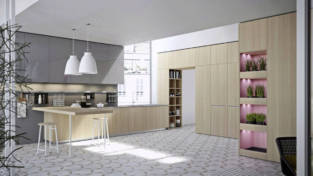
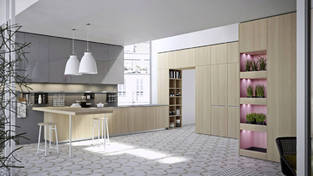
image optimization

diff --git a/pages/prodotti/living.md b/pages/prodotti/living.md
@@ -21,27 +21,27 @@ linkperrow: 5
 
 <div class="row">
     <div class="medium-8 columns t30">
-    {% include modalimg image='living/02-tavolo_16x9.jpg' %}
+    {% include modalimg image='living/02-tavolo_16x9_thumbbig.jpg' modimage='living/02-tavolo_16x9.jpg' %}
     </div><!-- /.medium-8.columns -->
 
     <div class="medium-4 columns t30">
-      {% include modalimg image='living/03-tavolo_16x9.jpg' %}
-      {% include modalimg image='living/04-tavolo_16x9.jpg' class='t30' %}
+      {% include modalimg image='living/03-tavolo_16x9_thumb.jpg' modimage='living/03-tavolo_16x9.jpg' %}
+      {% include modalimg image='living/04-tavolo_16x9_thumb.jpg' modimage='living/04-tavolo_16x9.jpg' class='t30' %}
     </div><!-- /.medium-4.columns -->
 </div><!-- /.row -->
 
 
 <div class="row">
     <div class="medium-4 columns t30">
-      {% include modalimg image='living/01-sedie_16x9.jpg' %}
+      {% include modalimg image='living/01-sedie_16x9_thumb.jpg' modimage='living/01-sedie_16x9.jpg' %}
     </div><!-- /.medium-4.columns -->
 
     <div class="medium-4 columns t30">
-      {% include modalimg image='living/08-complemento_16x9.jpg' %}
+      {% include modalimg image='living/08-complemento_16x9_thumb.jpg' modimage='living/08-complemento_16x9.jpg' %}
     </div><!-- /.medium-4.columns -->
 
     <div class="medium-4 columns t30">
-      {% include modalimg image='living/09-complemento_16x9.jpg' %}
+      {% include modalimg image='living/09-complemento_16x9_thumb.jpg' modimage='living/09-complemento_16x9.jpg' %}
     </div><!-- /.medium-4.columns -->
 
 </div><!-- /.row -->
@@ -49,12 +49,12 @@ linkperrow: 5
 
 <div class="row">
     <div class="medium-4 columns t30">
-      {% include modalimg image='living/05-letto_16x9.jpg' %}
-      {% include modalimg image='living/07-sala_16x9.jpg' class='t30' %}
+      {% include modalimg image='living/05-letto_16x9_thumb.jpg' modimage='living/05-letto_16x9.jpg' %}
+      {% include modalimg image='living/07-sala_16x9_thumb.jpg' modimage='living/07-sala_16x9.jpg' class='t30' %}
     </div><!-- /.medium-4.columns -->
 
     <div class="medium-8 columns t30">
-    {% include modalimg image='living/06-sala_16x9.jpg' %}
+    {% include modalimg image='living/06-sala_16x9_thumbbig.jpg' modimage='living/06-sala_16x9.jpg' %}
     </div><!-- /.medium-8.columns -->
 </div><!-- /.row -->
 

diff --git a/pages/prodotti/sofa.md b/pages/prodotti/sofa.md
@@ -20,38 +20,38 @@ linkperrow: 5
 
 <div class="row">
     <div class="medium-8 columns t30">
-    {% include modalimg image='sofa/01-stressless_16x9.jpg' %}
+    {% include modalimg image='sofa/01-stressless_16x9_thumbbig.jpg' %}
     </div><!-- /.medium-8.columns -->
 
     <div class="medium-4 columns t30">
-      {% include modalimg image='sofa/02-stressless_16x9.jpg' %}
-      {% include modalimg image='sofa/03-stressless_16x9.jpg' class='t30' %}
+      {% include modalimg image='sofa/02-stressless_16x9_thumb.jpg' image='sofa/02-stressless_16x9.jpg' %}
+      {% include modalimg image='sofa/03-stressless_16x9_thumb.jpg' image='sofa/03-stressless_16x9.jpg' class='t30' %}
     </div><!-- /.medium-4.columns -->
 
 </div><!-- /.row -->
 
 <div class="row">
     <div class="medium-4 columns t30">
-      {% include modalimg image='sofa/05-globe_16x9.jpg' caption='RigoSalotti Globe' modimage='sofa/05-globe.jpg' %}
-      {% include modalimg image='sofa/07-divano_16x9.jpg' class='t30' %}
+      {% include modalimg image='sofa/05-globe_16x9_thumb.jpg' caption='RigoSalotti Globe' modimage='sofa/05-globe.jpg' %}
+      {% include modalimg image='sofa/07-divano_16x9_thumb.jpg' image='sofa/07-divano_16x9.jpg' class='t30' %}
     </div><!-- /.medium-4.columns -->
 
     <div class="medium-8 columns t30">
-    {% include modalimg image='sofa/04-stressless_16x9.jpg' %}
+    {% include modalimg image='sofa/04-stressless_16x9_thumbbig.jpg' image='sofa/04-stressless_16x9.jpg' %}
     </div><!-- /.medium-8.columns -->
 </div><!-- /.row -->
 
 <div class="row">
     <div class="medium-4 columns t30">
-    {% include modalimg image='sofa/06-lerroy_16x9.jpg' %}
+    {% include modalimg image='sofa/06-lerroy_16x9_thumb.jpg' image='sofa/06-lerroy_16x9.jpg' %}
     </div><!-- /.medium-8.columns -->
 
     <div class="medium-4 columns t30">
-    {% include modalimg image='sofa/08-rigo_16x9.jpg' %}
+    {% include modalimg image='sofa/08-rigo_16x9_thumb.jpg' image='sofa/08-rigo_16x9.jpg' %}
     </div><!-- /.medium-8.columns -->
 
     <div class="medium-4 columns t30">
-    {% include modalimg image='sofa/09-rigo_16x9.jpg' %}
+    {% include modalimg image='sofa/09-rigo_16x9_thumb.jpg' image='sofa/09-rigo_16x9.jpg' %}
     </div><!-- /.medium-8.columns -->
 </div><!-- /.row -->
 

diff --git a/pages/prodotti/walldeco.md b/pages/prodotti/walldeco.md
@@ -20,21 +20,21 @@ linkperrow: 5
 
 <div class="row">
     <div class="medium-6 columns t30">
-      {% include modalimg image='walldeco/01-inkiostro_16x9.jpg' modimage='walldeco/01-inkiostro.jpg' %}
+      {% include modalimg image='walldeco/01-inkiostro_16x9_thumbbig.jpg' modimage='walldeco/01-inkiostro.jpg' %}
     </div><!-- /.medium-6.columns -->
 
     <div class="medium-6 columns t30">
-      {% include modalimg image='walldeco/02-inkiostro_16x9.jpg' %}
+      {% include modalimg image='walldeco/02-inkiostro_16x9_thumbbig.jpg' %}
     </div><!-- /.medium-6.columns -->
 </div><!-- /.row -->
 
 <div class="row">
     <div class="medium-6 columns t30">
-      {% include modalimg image='walldeco/03-quadro_16x9.jpg' modimage='walldeco/03-quadro.jpg' %}
+      {% include modalimg image='walldeco/03-quadro_16x9_thumbbig.jpg' modimage='walldeco/03-quadro.jpg' %}
     </div><!-- /.medium-6.columns -->
 
     <div class="medium-6 columns t30">
-      {% include modalimg image='walldeco/04-quadro_16x9.jpg' %}
+      {% include modalimg image='walldeco/04-quadro_16x9_thumbbig.jpg' %}
     </div><!-- /.medium-6.columns -->
 </div><!-- /.row -->
 
